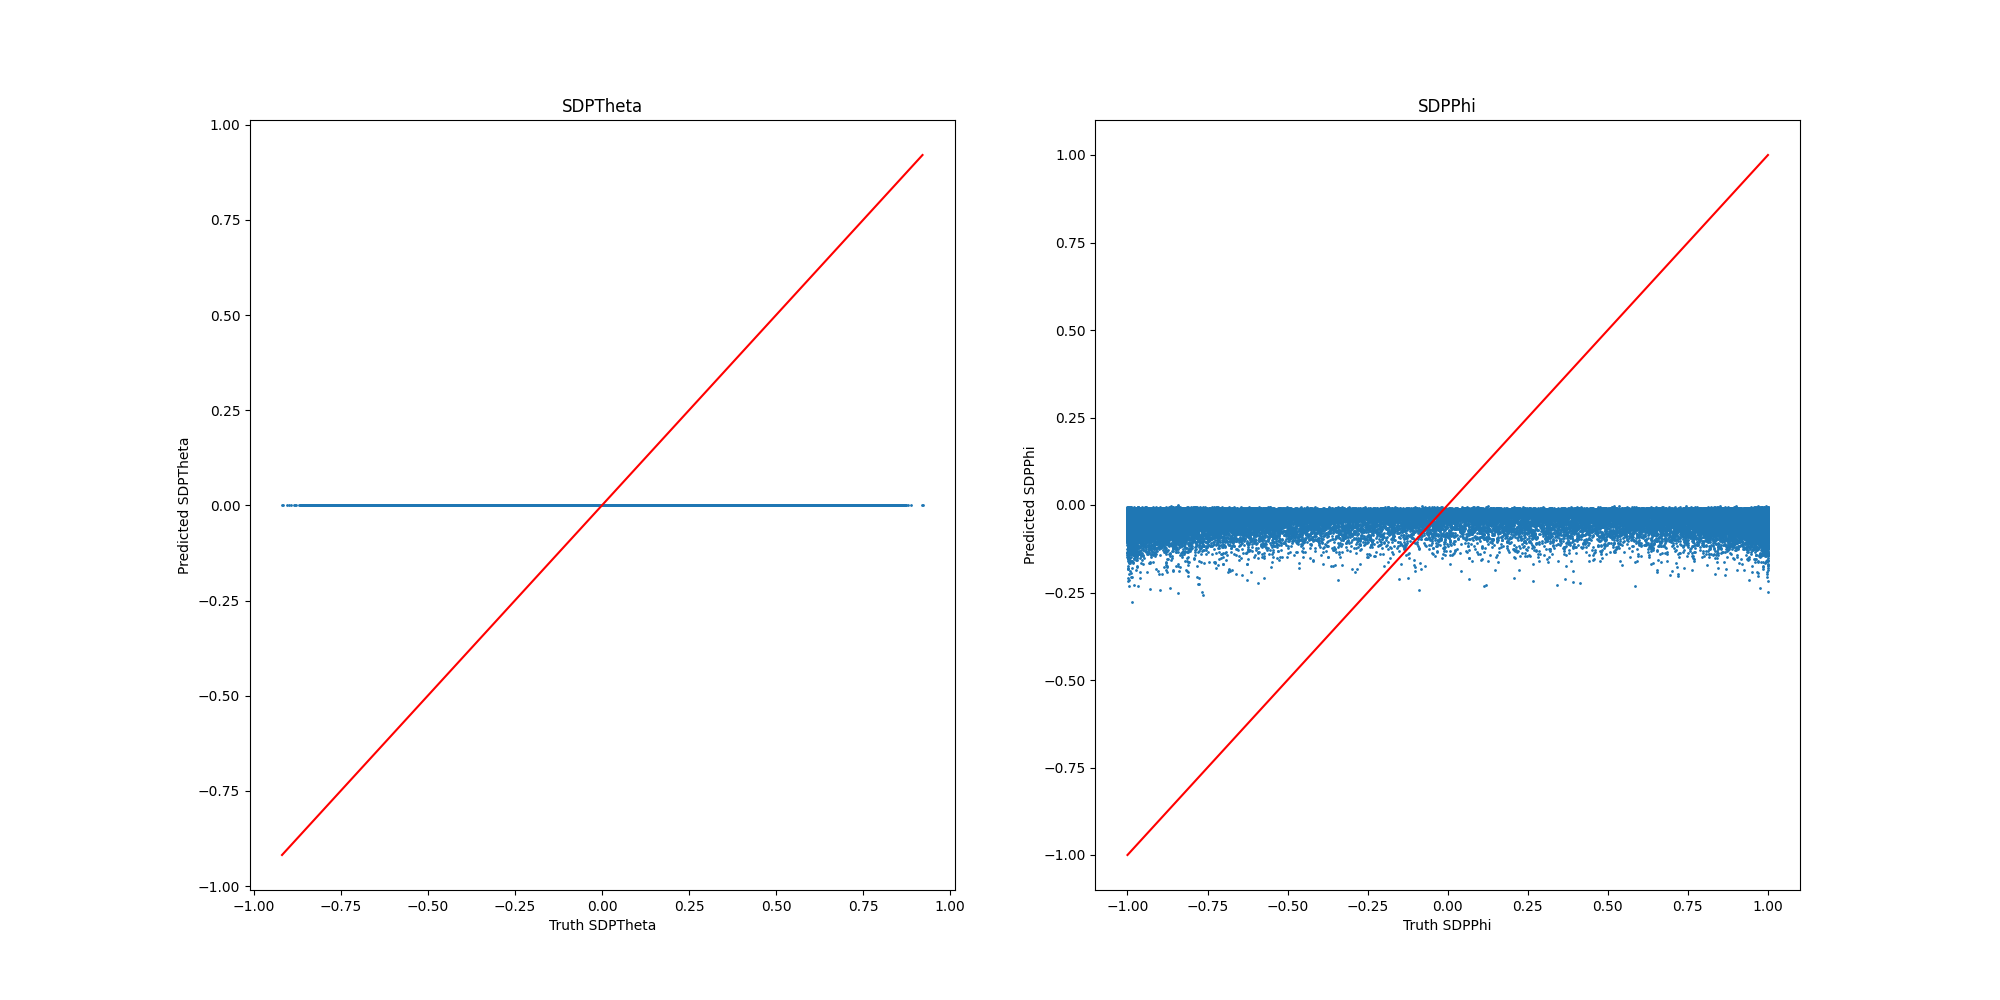
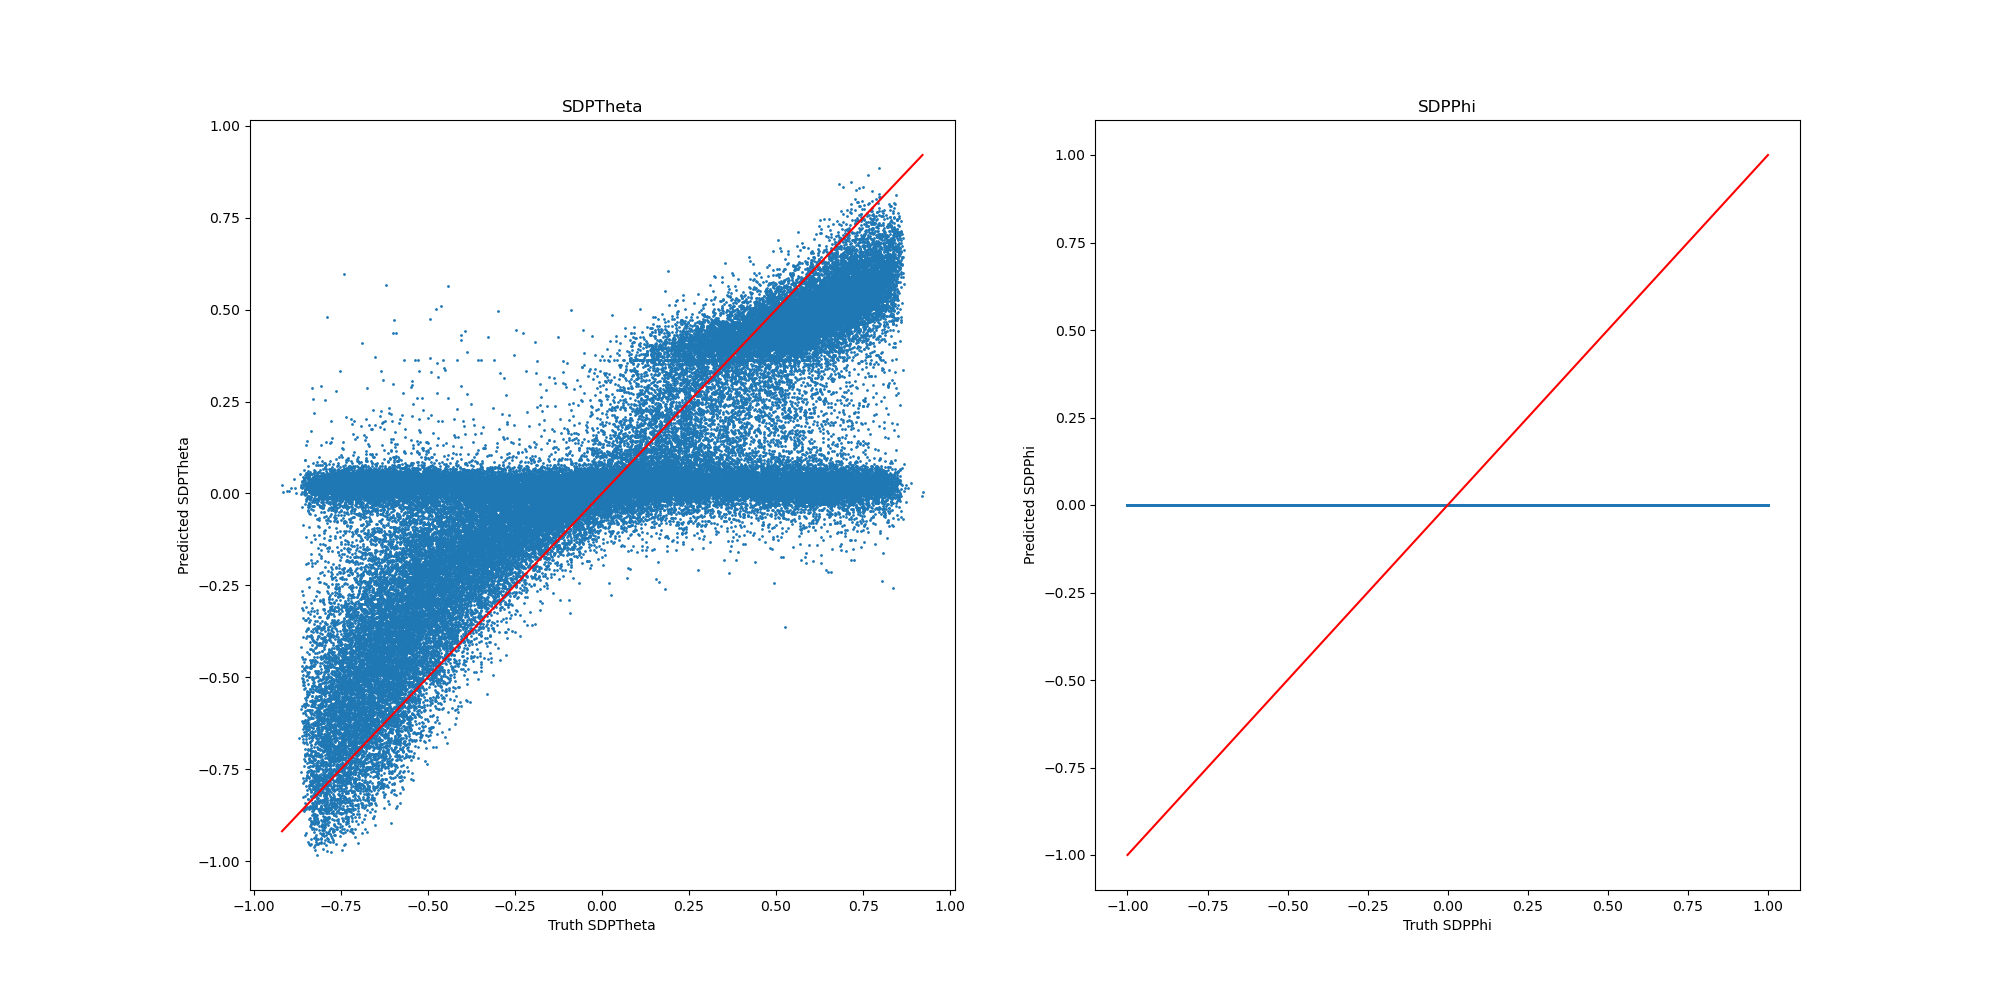
Fixed some model bugs

diff --git a/SDP/Models/Model_SDP.py b/SDP/Models/Model_SDP.py
@@ -8,9 +8,9 @@ import torch.nn as nn
 import torch.nn.functional as F
 
 # from time import time
-from   torch_geometric.nn import GCNConv, TAGConv,GATv2Conv
-from   torch_geometric.nn import global_mean_pool, global_max_pool, GlobalAttention
-from   torch_geometric.utils import add_self_loops
+# from   torch_geometric.nn import GCNConv, TAGConv,GATv2Conv
+# from   torch_geometric.nn import global_mean_pool, global_max_pool, GlobalAttention
+# from   torch_geometric.utils import add_self_loops
 
 
 # Define the Loss Function
@@ -700,7 +700,7 @@ class Model_SDP_Conv3d(nn.Module):
         self.Dense_Dropout    = nn.Dropout(dropout)
 
 
-        self.conv0 = Conv_Skip_Block_3d(in_channels=in_main_channels, N_kernels=N_kernels, activation_function=self.Conv_Activation, kernel_size=3,stride = 1, padding = (1,1,0)) # Should reducec this to the Tx20x20
+        self.conv0 = nn.Conv3d(in_channels=in_main_channels, out_channels=N_kernels, kernel_size=3, padding = (1,1,0) , stride = 1) # Out=> (N, N_kernels, 40, 20, 20)
         self.Conv1 = Conv_Skip_Block_3d(in_channels=N_kernels, N_kernels=N_kernels, activation_function=self.Conv_Activation, kernel_size=(3,3,3), padding=(1,1,1), dropout=dropout)
         self.Conv2 = Conv_Skip_Block_3d(in_channels=N_kernels, N_kernels=N_kernels, activation_function=self.Conv_Activation, kernel_size=(3,3,3), padding=(1,1,1), dropout=dropout)
         self.Conv3 = Conv_Skip_Block_3d(in_channels=N_kernels, N_kernels=N_kernels, activation_function=self.Conv_Activation, kernel_size=(3,3,3), padding=(1,1,1), dropout=dropout)

diff --git a/SDP/Code/Training.py b/SDP/Code/Training.py
@@ -98,7 +98,7 @@ if __name__ == '__main__' and not TestingThings:
     Use_Test_Set         = False
     Use_All_Sets         = True
     Dataset_RandomIter   = True
-    RecalculateDataset   = True
+    RecalculateDataset   = False
     NeedTraces           = True
     LoadModel            = False
     DoNotTrain           = False
@@ -164,7 +164,7 @@ if __name__ == '__main__' and not TestingThings:
             'in_aux_channels' : 0   ,
             'N_kernels'       : 16  ,
             'N_heads'         : 16  ,
-            'N_dense_nodes'   : 64 ,
+            'N_dense_nodes'   : 64  ,
             'N_LSTM_nodes'    : 64  ,
             'N_LSTM_layers'   : 5   ,
             'kernel_size'     : 10  ,
